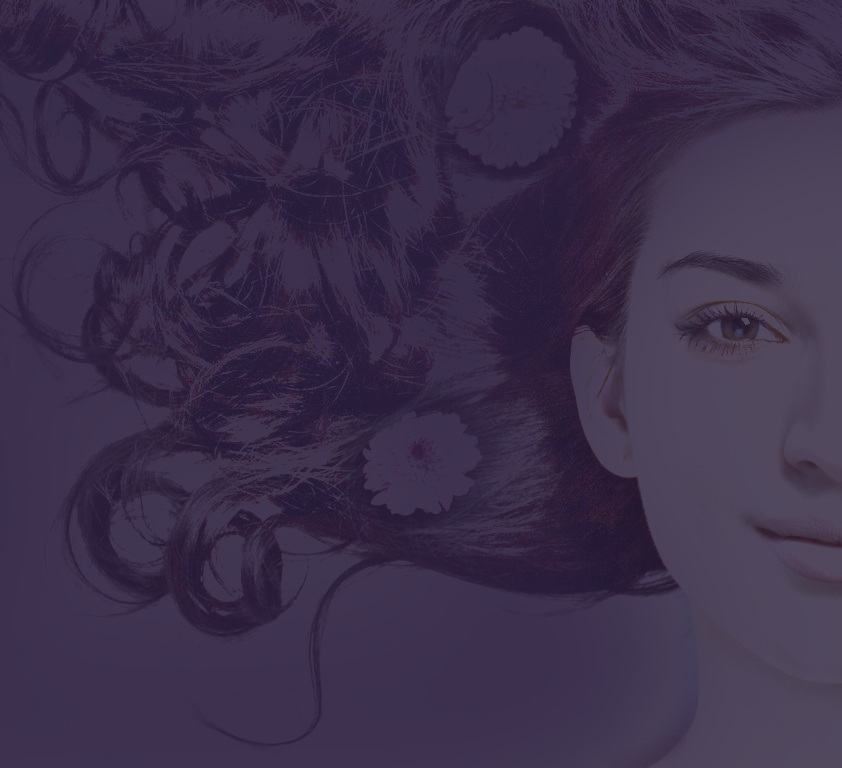
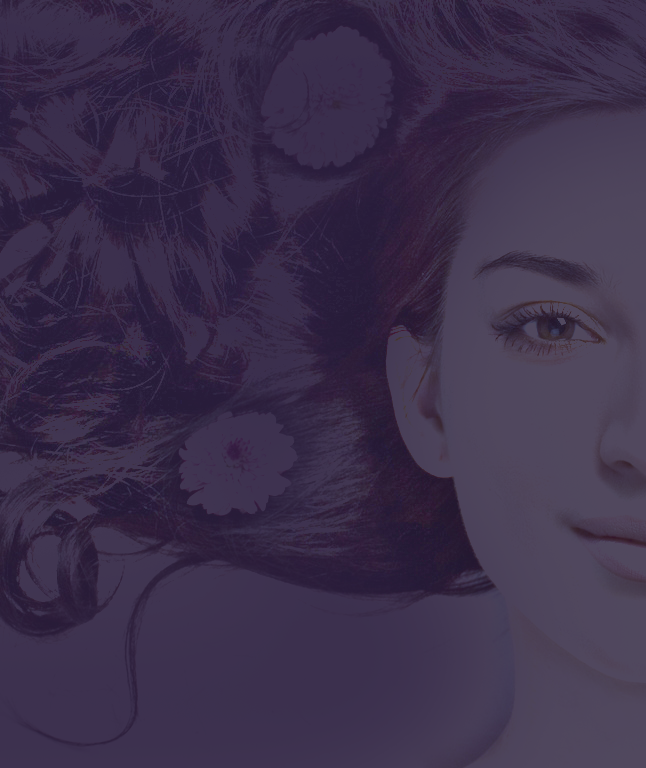
ipad version

diff --git a/css/media-queries.less b/css/media-queries.less
@@ -7,26 +7,14 @@ body {
     }
 
     .main {
-      text-align: center;
-      background: url("../img/mobole_main.png") 50% no-repeat;
+      background: url("../img/mobole_main.png") 0 0 no-repeat;
       background-size: cover;
 
       //background-attachment: fixed;
 
       h1 {
-        font-weight: 500;
         font-size: 30px;
-        letter-spacing: 3px;
-        margin: 10px;
-        text-transform: uppercase;
       }
-
-      p {
-        font-size: 16px;
-        letter-spacing: 2px;
-        margin: 0;
-      }
-
     }
 
     .price {
@@ -44,5 +32,35 @@ body {
         text-align: center;
       }
     }
+  }
+
+  @media screen and (max-width: 768px) {
+    .header {
+      .header_phone {
+        padding: 0 15px 10px;
+      }
+    }
+
+    .main {
+      background: url("../img/ipad_main.png") 0 0 no-repeat;
+      background-size: cover;
+    }
+
+    .price {
+      .price_services .price_services_description {
+        text-align: center;
+      }
+    }
+
+    .footer {
+      .footer_name {
+        text-align: center;
+      }
+
+      .footer_social {
+        text-align: center;
+      }
+    }
+
   }
 }
